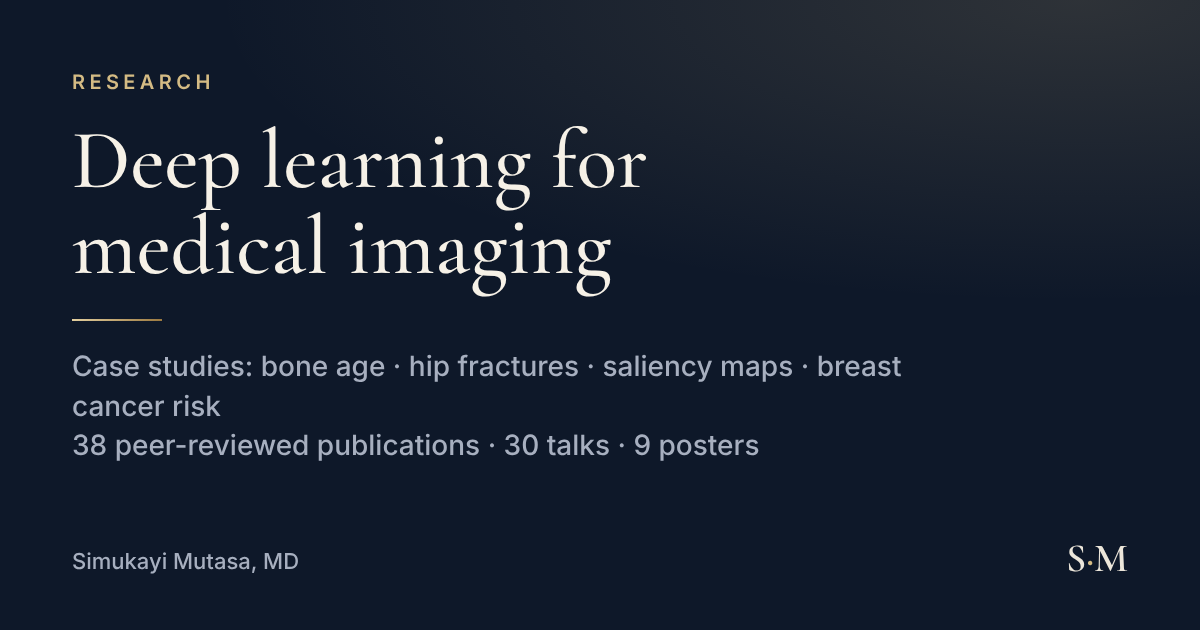
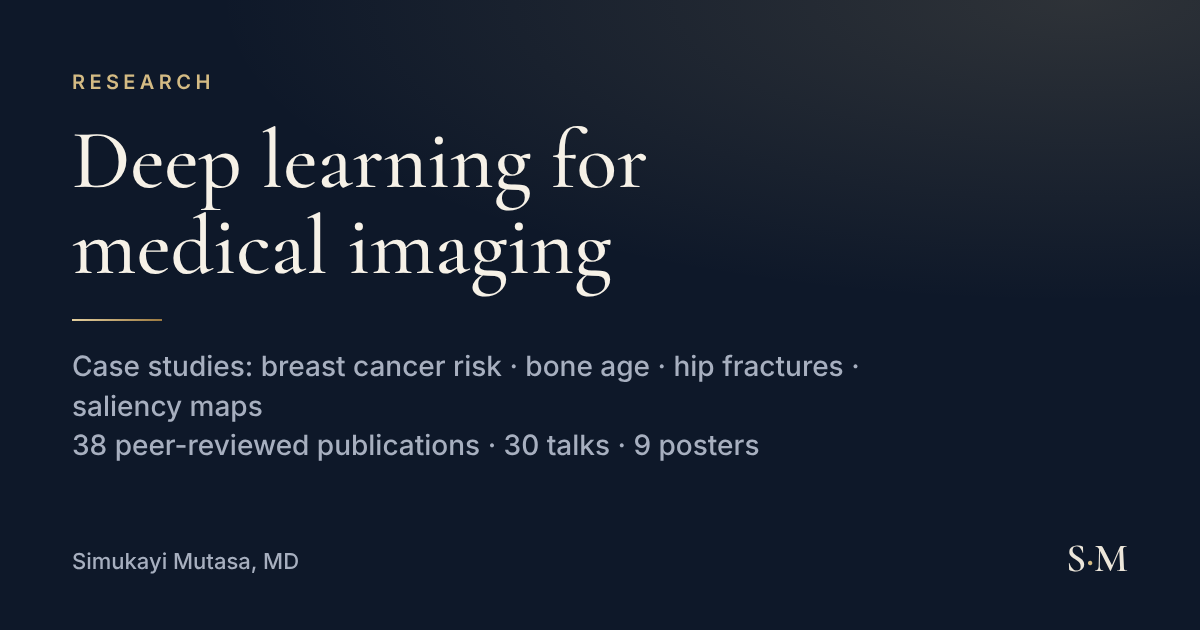
Breast risk case study first; update contributions; remove RSSA line
- Research: breast cancer risk stratification leads the case studies;
  contribution states the model and source code were written by me
- Saliency study: note role as a ground-truth radiologist
- Apps: remove the contribution rows
- Undergraduate line: BS Biochemistry
- Remove the RSSA track-chair entry from home and research pages

Claude-Session: https://claude.ai/code/session_014qTVkGRshnFhxSSRbsNqa6

Changed region(s): [[0.2158, 0.573, 0.7708, 0.6032], [0.0617, 0.6333, 0.2158, 0.6635]]

diff --git a/research.html b/research.html
@@ -72,6 +72,24 @@
         <h2>Four studies, in brief</h2>
         <p class="count">Problem, contribution, method, result and limitation for four published studies. Numbers are taken from the final publications. All are research models, not deployed clinical products.</p>
         <div class="case-grid">
+        <article class="case" id="case-breast-risk" aria-labelledby="case-breast-risk-h">
+          <div>
+            <p class="case-tag">Breast imaging &nbsp;|&nbsp; Acad Radiol 2019 · Co-author; model developer</p>
+            <h3 id="case-breast-risk-h">Breast cancer risk from the mammogram itself</h3>
+            <dl>
+            <div><dt>Clinical problem</dt><dd>Breast density is a coarse risk marker. The question was whether a network reading the whole mammogram could stratify future risk better.</dd></div>
+            <div><dt>My contribution</dt><dd>I wrote the source code and programmed the CNN risk model, working in Columbia’s breast imaging AI group with Ha (first author) and Jambawalikar (senior author). This line of work led to my NIH StARR-funded CAPRI resident research year.</dd></div>
+            <div><dt>Approach</dt><dd>Retrospective case-control study: prior mammograms of 210 women who later developed cancer (420 images) vs. 527 controls (1,054 images). A fully convolutional network produced a pixel-wise risk map, with an 80/20 split and five-fold cross-validation.</dd></div>
+            <div><dt>Published finding</dt><dd>The network score and breast density were independent predictors. The network’s odds ratio was 4.42 (95% CI 3.4–5.7) vs. 1.67 (1.4–1.9) for density, with 72% accuracy in identifying the case group.</dd></div>
+            <div><dt>Limitation</dt><dd>Single institution, retrospective and relatively small. The authors expected more data to improve the model. A research model.</dd></div>
+              <div><dt>Read more</dt><dd class="links"><a href="https://doi.org/10.1016/j.acra.2018.06.020">Paper (DOI)</a> <a href="https://pmc.ncbi.nlm.nih.gov/articles/PMC8114104/">Full text (PMC)</a> <a href="https://www.columbiaradiology.org/news/dr-simukayi-mutasa-receives-grant-columbia-cancer-training-program-resident-investigators-capri">CAPRI award announcement</a></dd></div>
+            </dl>
+          </div>
+          <figure>
+            <svg viewBox="0 0 360 152" role="img" aria-labelledby="t-or d-or"><title id="t-or">Odds ratios for later breast cancer</title><desc id="d-or">CNN pixel-wise risk score odds ratio 4.42 (95% CI 3.4 to 5.7); breast density odds ratio 1.67 (95% CI 1.4 to 1.9). Reference line at 1.</desc><line class="viz-arrow" x1="148.3" y1="14" x2="148.3" y2="110" stroke-dasharray="3 3"/><text class="viz-text" x="102" y="40" text-anchor="end">CNN risk score</text><line class="viz-arrow" x1="240.3" y1="36" x2="328.5" y2="36" style="stroke-width:2"/><rect class="viz-bar" x="273.4" y="30" width="12" height="12" rx="2"/><text class="viz-muted" x="279.4" y="24" text-anchor="middle">4.42 (3.4–5.7)</text><text class="viz-text" x="102" y="86" text-anchor="end">Breast density</text><line class="viz-arrow" x1="163.7" y1="82" x2="182.8" y2="82" style="stroke-width:2"/><rect class="viz-bar-2" x="168.0" y="76" width="12" height="12" rx="2"/><text class="viz-muted" x="174.0" y="70" text-anchor="middle">1.67 (1.4–1.9)</text><text class="viz-muted" x="110.0" y="128" text-anchor="middle">0</text><text class="viz-muted" x="148.3" y="128" text-anchor="middle">1</text><text class="viz-muted" x="186.7" y="128" text-anchor="middle">2</text><text class="viz-muted" x="263.3" y="128" text-anchor="middle">4</text><text class="viz-muted" x="340.0" y="128" text-anchor="middle">6</text><text class="viz-muted" x="110" y="144">Odds ratio (95% CI); dashed line = no association</text></svg>
+            <figcaption>Multivariate odds ratios as published.</figcaption>
+          </figure>
+        </article>
         <article class="case" id="case-bone-age" aria-labelledby="case-bone-age-h">
           <div>
             <p class="case-tag">MSK · Pediatric &nbsp;|&nbsp; J Digit Imaging 2018 · First author</p>
@@ -104,17 +122,17 @@
             </dl>
           </div>
           <figure>
-            <svg viewBox="0 0 360 164" role="img" aria-labelledby="t-139878433387904 d-139878433387904"><title id="t-139878433387904">Fracture vs. no fracture AUC by augmentation strategy</title><desc id="d-139878433387904">AUC 0.80 without advanced augmentation, 0.87 with GAN-generated images only, 0.91 with CT-derived DRRs only, and 0.92 with both.</desc><text class="viz-text" x="96" y="28" text-anchor="end">No advanced aug.</text><rect class="viz-bar-2" x="104" y="17" width="169.6" height="16" rx="3"/><text class="viz-text" x="279.6" y="29">0.80</text><text class="viz-text" x="96" y="58" text-anchor="end">GAN only</text><rect class="viz-bar-2" x="104" y="47" width="184.4" height="16" rx="3"/><text class="viz-text" x="294.4" y="59">0.87</text><text class="viz-text" x="96" y="88" text-anchor="end">DRR only</text><rect class="viz-bar-2" x="104" y="77" width="192.9" height="16" rx="3"/><text class="viz-text" x="302.9" y="89">0.91</text><text class="viz-text" x="96" y="118" text-anchor="end">GAN + DRR</text><rect class="viz-bar" x="104" y="107" width="195.0" height="16" rx="3"/><text class="viz-text" x="305.0" y="119">0.92</text><line class="viz-line" x1="104" y1="10" x2="104" y2="134"/><text class="viz-muted" x="104.0" y="150" text-anchor="middle">0</text><text class="viz-muted" x="210.0" y="150" text-anchor="middle">0.50</text><text class="viz-muted" x="316.0" y="150" text-anchor="middle">1.00</text></svg>
+            <svg viewBox="0 0 360 164" role="img" aria-labelledby="t-140633231969984 d-140633231969984"><title id="t-140633231969984">Fracture vs. no fracture AUC by augmentation strategy</title><desc id="d-140633231969984">AUC 0.80 without advanced augmentation, 0.87 with GAN-generated images only, 0.91 with CT-derived DRRs only, and 0.92 with both.</desc><text class="viz-text" x="96" y="28" text-anchor="end">No advanced aug.</text><rect class="viz-bar-2" x="104" y="17" width="169.6" height="16" rx="3"/><text class="viz-text" x="279.6" y="29">0.80</text><text class="viz-text" x="96" y="58" text-anchor="end">GAN only</text><rect class="viz-bar-2" x="104" y="47" width="184.4" height="16" rx="3"/><text class="viz-text" x="294.4" y="59">0.87</text><text class="viz-text" x="96" y="88" text-anchor="end">DRR only</text><rect class="viz-bar-2" x="104" y="77" width="192.9" height="16" rx="3"/><text class="viz-text" x="302.9" y="89">0.91</text><text class="viz-text" x="96" y="118" text-anchor="end">GAN + DRR</text><rect class="viz-bar" x="104" y="107" width="195.0" height="16" rx="3"/><text class="viz-text" x="305.0" y="119">0.92</text><line class="viz-line" x1="104" y1="10" x2="104" y2="134"/><text class="viz-muted" x="104.0" y="150" text-anchor="middle">0</text><text class="viz-muted" x="210.0" y="150" text-anchor="middle">0.50</text><text class="viz-muted" x="316.0" y="150" text-anchor="middle">1.00</text></svg>
             <figcaption>Two-class AUC on the held-out set, as reported for each augmentation strategy. Axis starts at zero.</figcaption>
           </figure>
         </article>
         <article class="case" id="case-saliency" aria-labelledby="case-saliency-h">
           <div>
-            <p class="case-tag">AI evaluation · MSK &nbsp;|&nbsp; J Imaging Inform Med 2024 · Co-author (2nd of 5)</p>
+            <p class="case-tag">AI evaluation · MSK &nbsp;|&nbsp; J Imaging Inform Med 2024 · Co-author; ground-truth reader</p>
             <h3 id="case-saliency-h">Are saliency maps trustworthy explanations?</h3>
             <dl>
             <div><dt>Clinical problem</dt><dd>Heatmaps are widely used to show “where the AI looked,” but their reliability had not been tested on musculoskeletal radiographs.</dd></div>
-            <div><dt>My contribution</dt><dd>Co-author on a Johns Hopkins and University of Maryland study led by Venkatesh (first author) and Yi (senior author).</dd></div>
+            <div><dt>My contribution</dt><dd>Co-author, and one of the three fellowship-trained MSK radiologists who drew the ground-truth boxes, on a Johns Hopkins and University of Maryland study led by Venkatesh (first author) and Yi (senior author).</dd></div>
             <div><dt>Approach</dt><dd>Networks trained on the public Stanford MURA upper-extremity dataset. Six gradient-based saliency methods were scored on localization, repeatability, reproducibility and sensitivity to model weights, against consensus boxes from three fellowship-trained MSK radiologists.</dd></div>
             <div><dt>Published finding</dt><dd>Every method localized abnormalities worse than radiologists (AUPRC 0.438–0.590 vs. 0.816) and was less repeatable and reproducible. Five passed the weight-sensitivity test, but none met all four criteria. The authors recommend caution before clinical use.</dd></div>
             <div><dt>Limitation</dt><dd>One public dataset of upper-extremity radiographs, and gradient-based methods only. Results may differ for other explanation methods, body parts or modalities.</dd></div>
@@ -124,24 +142,6 @@
           <figure>
             <svg viewBox="0 0 360 188" role="img" aria-labelledby="t-sal d-sal"><title id="t-sal">Saliency methods versus radiologists</title><desc id="d-sal">Localization AUPRC: methods 0.438 to 0.590, radiologists 0.816. Repeatability IoU: methods 0.427 to 0.551, radiologists 0.613. Reproducibility IoU: methods 0.250 to 0.502, radiologists 0.613.</desc><text class="viz-text" x="104" y="26" text-anchor="end">Localization</text><text class="viz-muted" x="104" y="40" text-anchor="end">AUPRC</text><line class="viz-line" x1="112" y1="24" x2="340" y2="24"/><rect class="viz-bar-2" x="211.9" y="18" width="34.7" height="12" rx="6"/><circle class="viz-mark" cx="298.0" cy="24" r="5"/><text class="viz-text" x="104" y="66" text-anchor="end">Repeatability</text><text class="viz-muted" x="104" y="80" text-anchor="end">IoU</text><line class="viz-line" x1="112" y1="64" x2="340" y2="64"/><rect class="viz-bar-2" x="209.4" y="58" width="28.3" height="12" rx="6"/><circle class="viz-mark" cx="251.8" cy="64" r="5"/><text class="viz-text" x="104" y="106" text-anchor="end">Reproducibility</text><text class="viz-muted" x="104" y="120" text-anchor="end">IoU</text><line class="viz-line" x1="112" y1="104" x2="340" y2="104"/><rect class="viz-bar-2" x="169.0" y="98" width="57.5" height="12" rx="6"/><circle class="viz-mark" cx="251.8" cy="104" r="5"/><text class="viz-muted" x="112.0" y="142" text-anchor="middle">0</text><text class="viz-muted" x="226.0" y="142" text-anchor="middle">0.5</text><text class="viz-muted" x="340.0" y="142" text-anchor="middle">1</text><rect class="viz-bar-2" x="112" y="155" width="22" height="10" rx="5"/><text class="viz-muted" x="140" y="164">Six saliency methods (range)</text><circle class="viz-mark" cx="123" cy="176" r="4.5"/><text class="viz-muted" x="140" y="180">Radiologist average</text></svg>
             <figcaption>Reported ranges across the six methods versus the radiologist average. Higher is better.</figcaption>
-          </figure>
-        </article>
-        <article class="case" id="case-breast-risk" aria-labelledby="case-breast-risk-h">
-          <div>
-            <p class="case-tag">Breast imaging &nbsp;|&nbsp; Acad Radiol 2019 · Co-author (4th of 7)</p>
-            <h3 id="case-breast-risk-h">Breast cancer risk from the mammogram itself</h3>
-            <dl>
-            <div><dt>Clinical problem</dt><dd>Breast density is a coarse risk marker. The question was whether a network reading the whole mammogram could stratify future risk better.</dd></div>
-            <div><dt>My contribution</dt><dd>Co-author in Columbia’s breast imaging AI group, led by Ha (first author) and Jambawalikar (senior author). Columbia’s 2019 CAPRI announcement credits me with helping develop the group’s mammographic risk models, which my NIH StARR-funded resident research year built on.</dd></div>
-            <div><dt>Approach</dt><dd>Retrospective case-control study: prior mammograms of 210 women who later developed cancer (420 images) vs. 527 controls (1,054 images). A fully convolutional network produced a pixel-wise risk map, with an 80/20 split and five-fold cross-validation.</dd></div>
-            <div><dt>Published finding</dt><dd>The network score and breast density were independent predictors. The network’s odds ratio was 4.42 (95% CI 3.4–5.7) vs. 1.67 (1.4–1.9) for density, with 72% accuracy in identifying the case group.</dd></div>
-            <div><dt>Limitation</dt><dd>Single institution, retrospective and relatively small. The authors expected more data to improve the model. A research model.</dd></div>
-              <div><dt>Read more</dt><dd class="links"><a href="https://doi.org/10.1016/j.acra.2018.06.020">Paper (DOI)</a> <a href="https://pmc.ncbi.nlm.nih.gov/articles/PMC8114104/">Full text (PMC)</a> <a href="https://www.columbiaradiology.org/news/dr-simukayi-mutasa-receives-grant-columbia-cancer-training-program-resident-investigators-capri">CAPRI award announcement</a></dd></div>
-            </dl>
-          </div>
-          <figure>
-            <svg viewBox="0 0 360 152" role="img" aria-labelledby="t-or d-or"><title id="t-or">Odds ratios for later breast cancer</title><desc id="d-or">CNN pixel-wise risk score odds ratio 4.42 (95% CI 3.4 to 5.7); breast density odds ratio 1.67 (95% CI 1.4 to 1.9). Reference line at 1.</desc><line class="viz-arrow" x1="148.3" y1="14" x2="148.3" y2="110" stroke-dasharray="3 3"/><text class="viz-text" x="102" y="40" text-anchor="end">CNN risk score</text><line class="viz-arrow" x1="240.3" y1="36" x2="328.5" y2="36" style="stroke-width:2"/><rect class="viz-bar" x="273.4" y="30" width="12" height="12" rx="2"/><text class="viz-muted" x="279.4" y="24" text-anchor="middle">4.42 (3.4–5.7)</text><text class="viz-text" x="102" y="86" text-anchor="end">Breast density</text><line class="viz-arrow" x1="163.7" y1="82" x2="182.8" y2="82" style="stroke-width:2"/><rect class="viz-bar-2" x="168.0" y="76" width="12" height="12" rx="2"/><text class="viz-muted" x="174.0" y="70" text-anchor="middle">1.67 (1.4–1.9)</text><text class="viz-muted" x="110.0" y="128" text-anchor="middle">0</text><text class="viz-muted" x="148.3" y="128" text-anchor="middle">1</text><text class="viz-muted" x="186.7" y="128" text-anchor="middle">2</text><text class="viz-muted" x="263.3" y="128" text-anchor="middle">4</text><text class="viz-muted" x="340.0" y="128" text-anchor="middle">6</text><text class="viz-muted" x="110" y="144">Odds ratio (95% CI); dashed line = no association</text></svg>
-            <figcaption>Multivariate odds ratios as published.</figcaption>
           </figure>
         </article>
         </div>
@@ -323,7 +323,6 @@
           <div>
             <p class="year">LEADERSHIP &amp; SERVICE</p>
             <ul class="cites">
-              <li><span class="t">Track Chair, “Future of Radiology”</span>13th Annual RSSA Conference</li>
               <li><span class="t">Machine Learning Research Tools Subcommittee</span>Society for Imaging Informatics in Medicine (SIIM), 2019 – present</li>
               <li><span class="t">Clinical Lead, Arterys AI platform integration</span>NewYork-Presbyterian Hospital, 2018 – 2020</li>
               <li><span class="t">Chief Resident, Diagnostic Radiology</span>Columbia University Irving Medical Center, 2017 – 2019</li>

diff --git a/apps.html b/apps.html
@@ -77,7 +77,6 @@
             <dl>
               <div><dt>Problem</dt><dd>My health data lived in four separate apps (Whoop, Garmin, Withings and an Omron blood-pressure cuff), and none of them connected the numbers to what I was trying to change.</dd></div>
               <div><dt>What it does</dt><dd>Brings all four sources into one database and dashboard: body composition, 7-day averages and trends. Every morning it composes a brief on progress toward a long-term goal and the current month’s goals, written as a change from the previous day and delivered as a push notification. Meals are logged by photo or by typing what I ate.</dd></div>
-              <div><dt>My contribution</dt><dd>I defined the product: which devices to integrate, a two-tier goal system (one fixed long-term goal plus monthly goals I set myself), and the rule that every brief reports what changed since the last one. I set the design direction and run it on my own Android phone.</dd></div>
             </dl>
             <p class="stack">Built with Next.js · Prisma + SQLite · Android shell (Capacitor) · Railway</p>
           </div>
@@ -104,7 +103,6 @@
             <dl>
               <div><dt>Problem</dt><dd>Tasks reached me through email, text messages and my own head, and a plain to-do list could neither sort them nor plan a day around them.</dd></div>
               <div><dt>What it does</dt><dd>Tasks with projects, tags, subtasks and recurrence; notes and checklists; a morning briefing and a one-tap day plan; and one inbox where AI triages Gmail and forwarded texts into tasks. Voice capture uses the browser’s built-in speech recognition, so no audio goes to a third-party service.</dd></div>
-              <div><dt>My contribution</dt><dd>I specified the feature set and the self-hosted design: a single container with its own SQLite file on my server, a PIN-protected login, and my own AI key as the only outside dependency, with every AI call made server-side.</dd></div>
             </dl>
             <p class="stack">Built with Next.js 15 · SQLite · Docker · installable PWA</p>
           </div>
@@ -131,7 +129,6 @@
             <dl>
               <div><dt>Problem</dt><dd>Brokerage apps show a list of positions. I wanted to see a whole portfolio at once, including private holdings with no public price, and to know how close it was to a margin call.</dd></div>
               <div><dt>What it does</dt><dd>A treemap of public holdings, grouped by sector, sized by value and colored by return over a chosen period. A register of private holdings valued at the best available market price. A 1–10 margin-call risk score.</dd></div>
-              <div><dt>My contribution</dt><dd>I set the rules: private holdings are valued from the listed price first, then secondary-market quotes, and only then the last funding round. Fees are modelled per holding. Every dollar figure is computed deterministically in code, and the language model is used only for the risk-severity judgment and weekly price research, on a fixed update schedule.</dd></div>
             </dl>
             <p class="stack">Built with Python · FastAPI · APScheduler · yfinance · dependency-free JavaScript · PWA</p>
           </div>

diff --git a/index.html b/index.html
@@ -134,7 +134,7 @@
             <div><dt>Fellowship</dt><dd>Musculoskeletal Radiology, Thomas Jefferson University Hospital</dd></div>
             <div><dt>Residency</dt><dd>Diagnostic Radiology, NewYork-Presbyterian / Columbia · Chief Resident</dd></div>
             <div><dt>Medical school</dt><dd>MD with AOA honors, The University of Texas Medical Branch</dd></div>
-            <div><dt>Undergraduate</dt><dd>BS Biochemistry, The University of Texas at Austin, with additional studies in petroleum engineering</dd></div>
+            <div><dt>Undergraduate</dt><dd>BS Biochemistry, The University of Texas at Austin</dd></div>
             <div><dt>Languages</dt><dd>English, Shona</dd></div>
           </dl>
         </div>
@@ -209,15 +209,14 @@
 
             <p class="label">Case studies</p>
             <ul class="case-preview">
+              <li><a href="research.html#case-breast-risk"><span class="k">Breast · 2019 · Model developer</span><span class="h">Risk from the mammogram</span><span class="r">A CNN risk score I programmed predicted later cancer independently of breast density (OR 4.42 vs. 1.67).</span></a></li>
               <li><a href="research.html#case-bone-age"><span class="k">MSK · 2018 · First author</span><span class="h">Bone age (MABAL)</span><span class="r">A custom network trained from scratch reached a test error of 0.536 years.</span></a></li>
               <li><a href="research.html#case-hip-fracture"><span class="k">MSK · 2020 · First author</span><span class="h">Hip fracture detection</span><span class="r">Synthetic and CT-derived training images lifted fracture-detection AUC from 0.80 to 0.92.</span></a></li>
-              <li><a href="research.html#case-saliency"><span class="k">AI evaluation · 2024 · Co-author</span><span class="h">Do saliency maps explain?</span><span class="r">Six explanation methods were tested against radiologists, and none met all four trust criteria.</span></a></li>
-              <li><a href="research.html#case-breast-risk"><span class="k">Breast · 2019 · Co-author</span><span class="h">Risk from the mammogram</span><span class="r">A CNN risk score predicted later cancer independently of breast density (OR 4.42 vs. 1.67).</span></a></li>
+              <li><a href="research.html#case-saliency"><span class="k">AI evaluation · 2024 · Ground-truth reader</span><span class="h">Do saliency maps explain?</span><span class="r">Six explanation methods were tested against radiologists, and none met all four trust criteria.</span></a></li>
             </ul>
 
             <p class="label">Leadership &amp; teaching</p>
             <ul class="plain">
-              <li>Track Chair, “Future of Radiology,” 13th Annual RSSA Conference</li>
               <li>Invited faculty, RSNA “AI for Non-Coders” hands-on course, 2019 &amp; 2020</li>
               <li>SIIM Machine Learning Research Tools subcommittee</li>
               <li>Clinical lead, NewYork-Presbyterian × Arterys AI platform integration</li>
